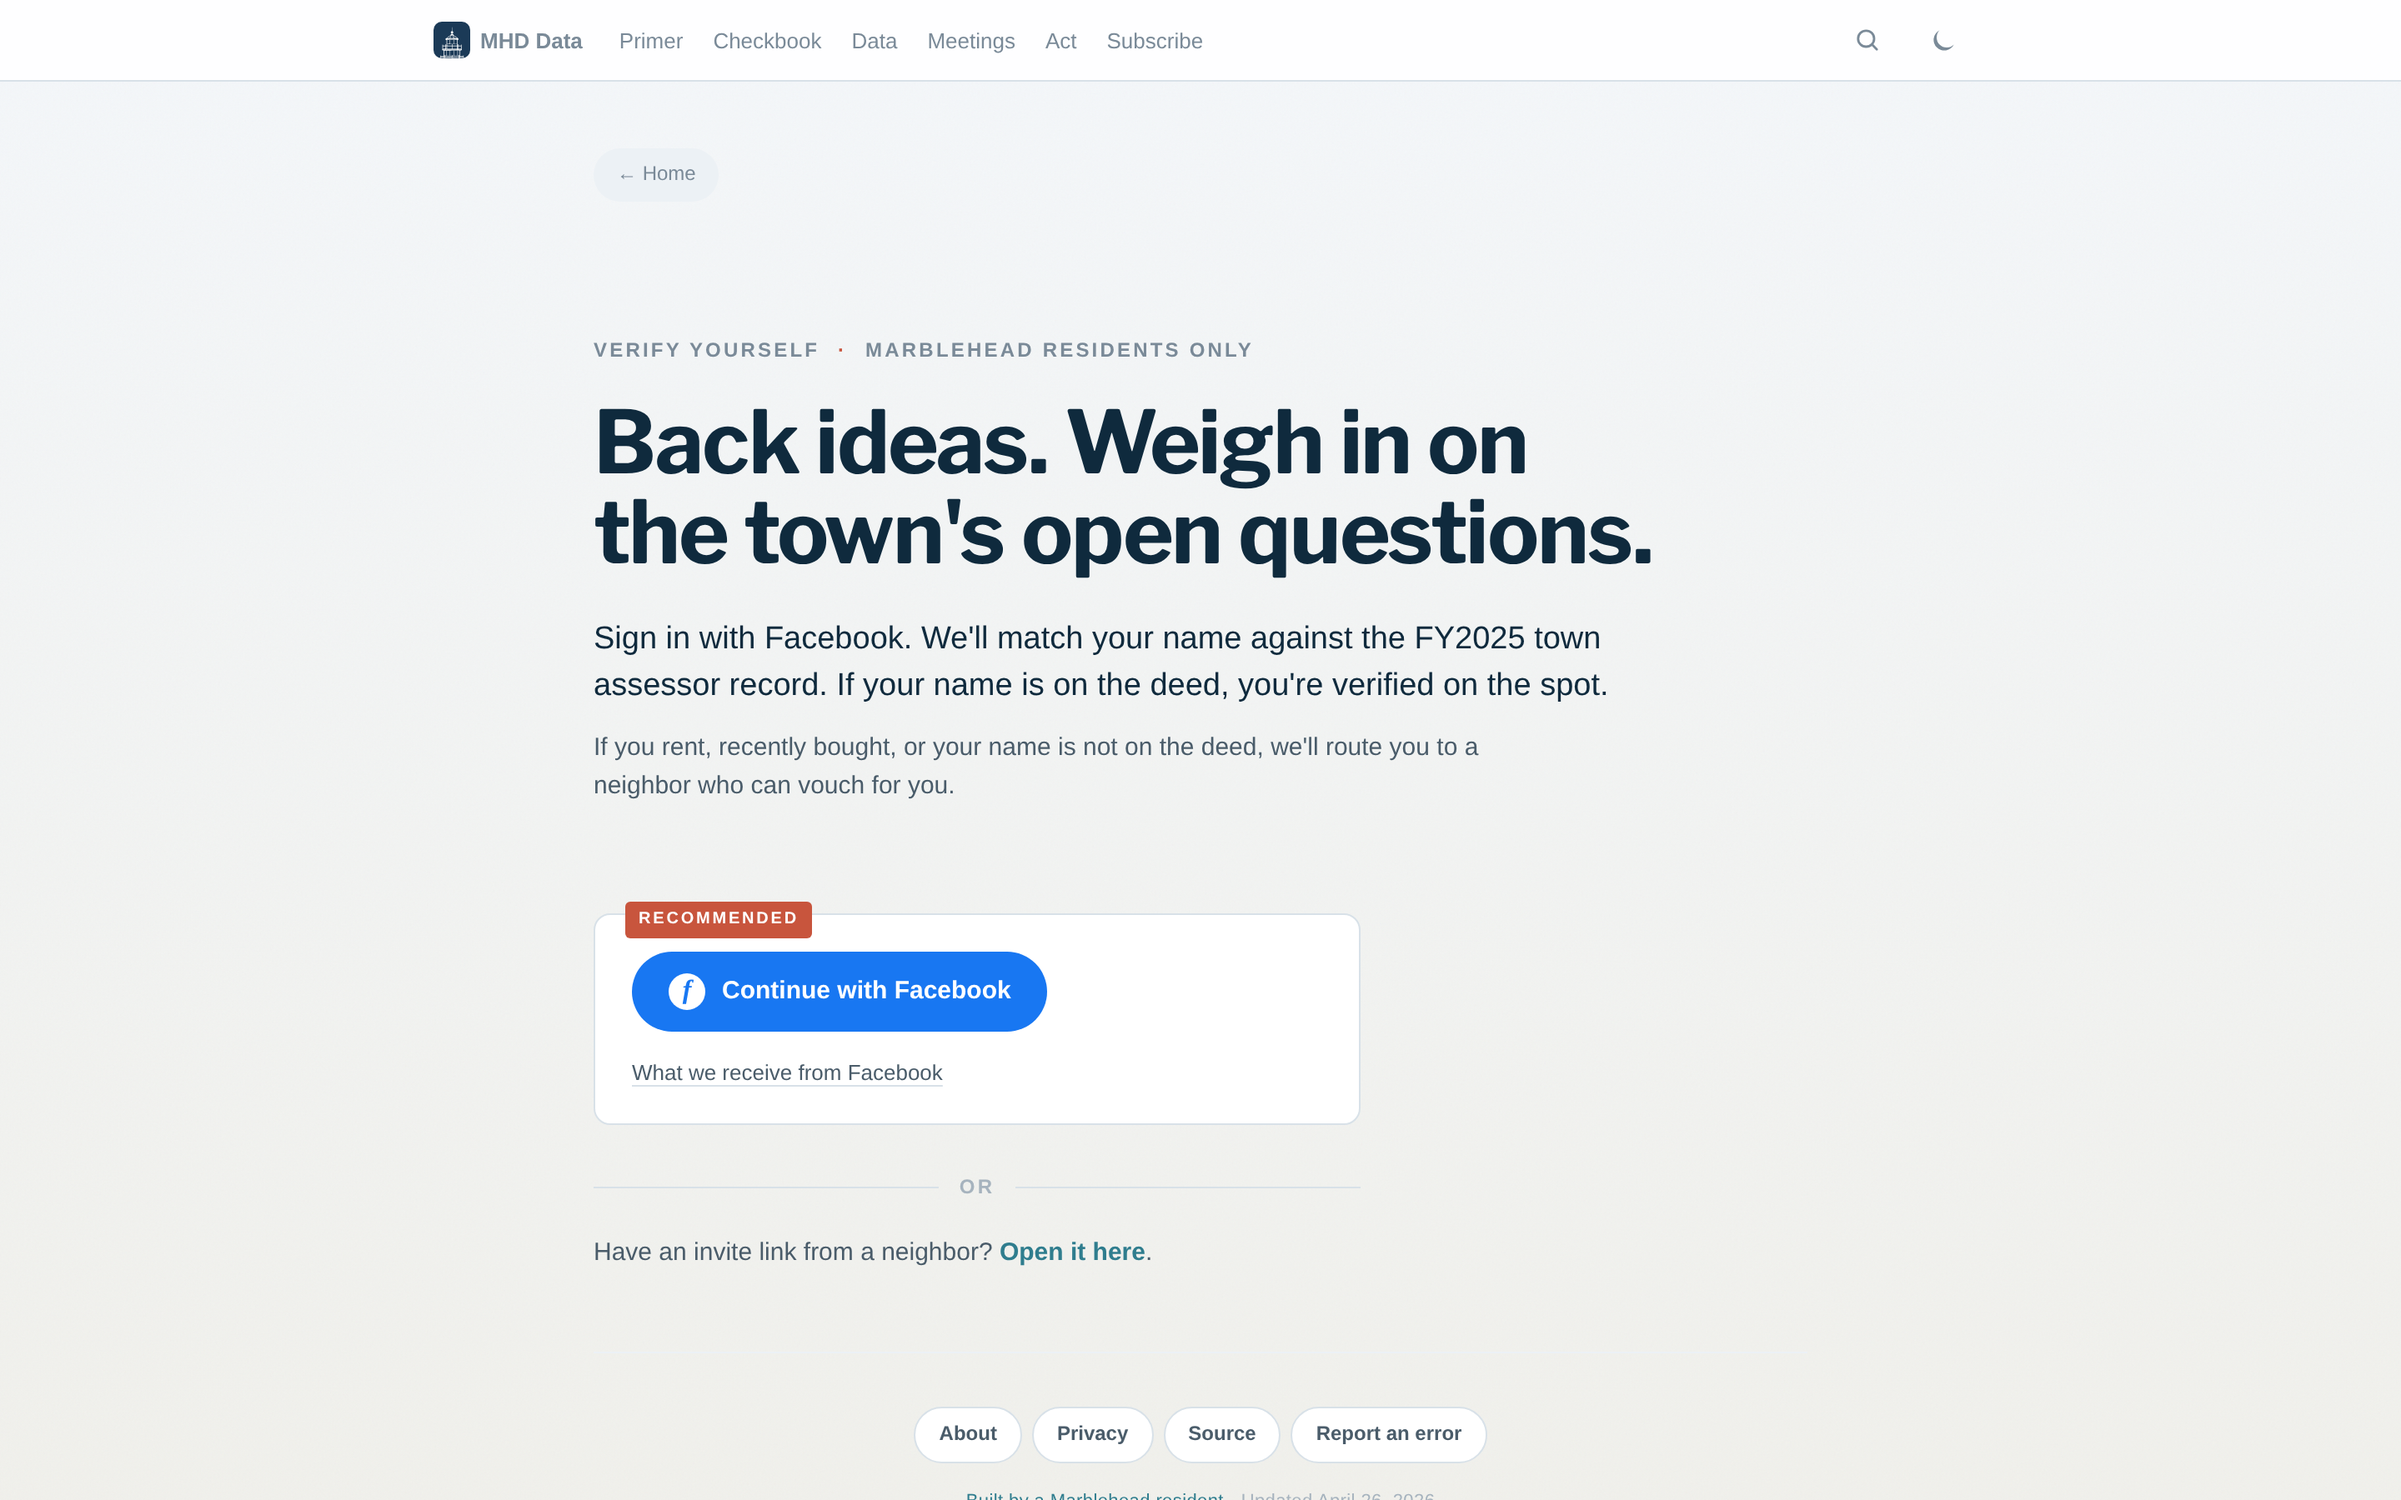
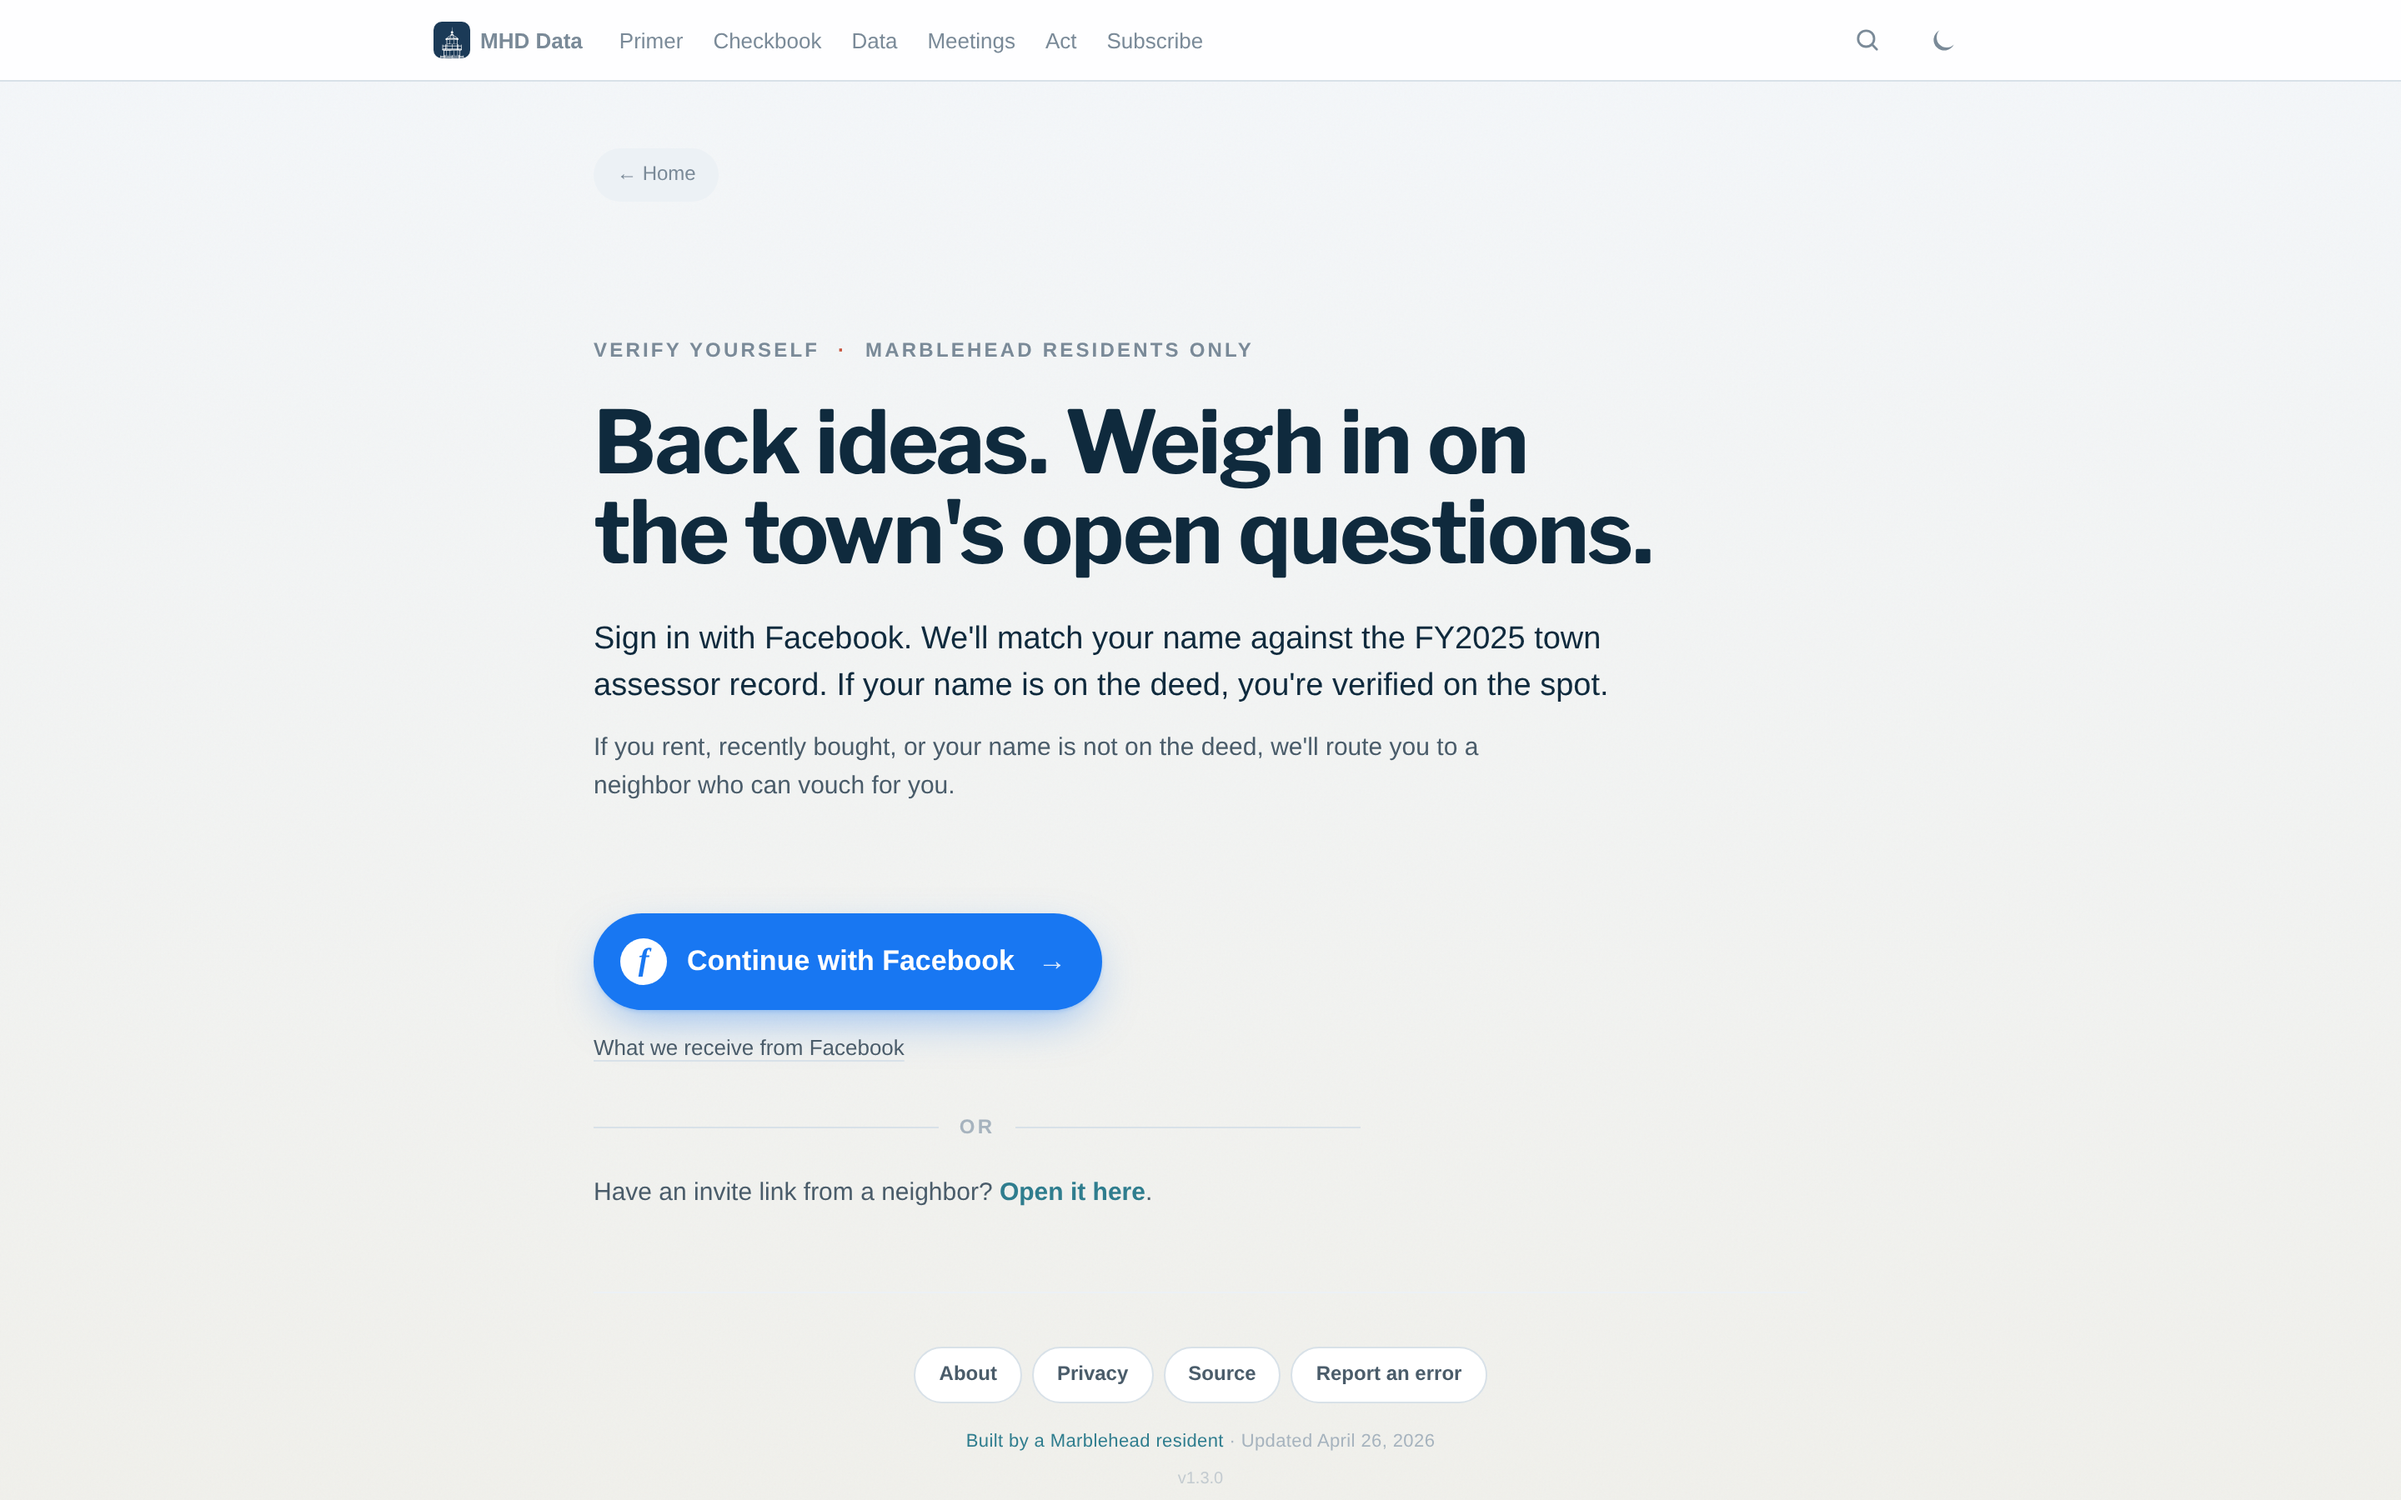
verify-me: lighten the FB CTA -- drop card, add arrow + soft blue glow
The card around the FB button had too much chrome around too small a
CTA: a floating RECOMMENDED tag, a full-width white card, padded
borders, and a button that ended up smaller than its container. The
home page's pattern is just a button + supporting text, no card.

Strip the card. Make the FB button itself the visual anchor:
- bigger circle f-mark (28px), bigger pill (17px text, 15px padding)
- inner "Continue with Facebook" label, trailing arrow that slides on
  hover (matches the .home-deeper "Open the Checkbook ->" idiom)
- soft Facebook-blue drop shadow underneath so the button reads as a
  physical element without needing a card frame

Generated with [Claude Code](https://claude.ai/code)
via [Happy](https://happy.engineering)

diff --git a/verify-me.html b/verify-me.html
@@ -44,49 +44,34 @@ permalink: /verify-me.html
     max-width: 580px;
   }
 
-  /* Primary CTA card --------------------------------------------- */
-  .vm-primary {
-    box-sizing: border-box;
-    max-width: 460px;
-    background: var(--surface);
-    border: 1px solid var(--border);
-    border-radius: 10px;
-    padding: 22px 22px 20px;
-    margin: 0 0 18px;
-    position: relative;
-  }
-  .vm-primary::before {
-    content: 'RECOMMENDED';
-    position: absolute;
-    top: -8px;
-    left: 18px;
-    background: var(--c-buoy);
-    color: #fff;
-    font-size: 10px;
-    font-weight: 700;
-    letter-spacing: 1.4px;
-    padding: 3px 8px;
-    border-radius: 3px;
-  }
+  /* Primary CTA --------------------------------------------------- */
+  .vm-primary { margin: 0 0 14px; }
   .vm-fb {
     display: inline-flex;
     align-items: center;
-    gap: 10px;
-    font-size: 15px;
+    gap: 12px;
+    font-size: 17px;
     font-weight: 700;
     color: #fff;
     background: #1877F2;
     border-radius: 999px;
-    padding: 12px 22px;
+    padding: 15px 22px 15px 16px;
     text-decoration: none;
-    transition: filter 0.15s ease, transform 0.12s ease;
+    box-shadow: 0 1px 2px rgba(24, 119, 242, 0.20),
+                0 10px 28px -8px rgba(24, 119, 242, 0.50);
+    transition: filter 0.15s ease, transform 0.12s ease, box-shadow 0.15s ease;
   }
-  .vm-fb:hover { filter: brightness(1.08); color: #fff; }
+  .vm-fb:hover {
+    filter: brightness(1.06);
+    color: #fff;
+    box-shadow: 0 1px 2px rgba(24, 119, 242, 0.25),
+                0 14px 32px -8px rgba(24, 119, 242, 0.60);
+  }
   .vm-fb:active { transform: scale(0.98); }
   .vm-fb-mark {
     display: inline-flex;
-    width: 22px;
-    height: 22px;
+    width: 28px;
+    height: 28px;
     align-items: center;
     justify-content: center;
     background: #fff;
@@ -95,18 +80,26 @@ permalink: /verify-me.html
     font-family: Georgia, 'Times New Roman', serif;
     font-style: italic;
     border-radius: 50%;
-    font-size: 16px;
+    font-size: 19px;
     line-height: 1;
   }
+  .vm-fb-arrow {
+    margin-left: 2px;
+    transition: transform 0.15s ease;
+    opacity: 0.85;
+  }
+  .vm-fb:hover .vm-fb-arrow { transform: translateX(3px); opacity: 1; }
   .vm-primary-note {
-    margin: 14px 0 0;
+    margin: 12px 0 0;
     font-size: 13px;
     color: var(--text-subtle);
+    max-width: 460px;
   }
   .vm-primary-note a {
     color: var(--text-muted);
     text-decoration: underline;
     text-decoration-color: var(--border);
+    text-decoration-thickness: 1px;
     text-underline-offset: 3px;
   }
   .vm-primary-note a:hover { color: var(--link); text-decoration-color: var(--link); }
@@ -368,7 +361,8 @@ permalink: /verify-me.html
      href="https://marblehead-community-pulse.agbaber.workers.dev/api/auth/fb/start"
      class="vm-fb">
     <span class="vm-fb-mark" aria-hidden="true">f</span>
-    Continue with Facebook
+    <span>Continue with Facebook</span>
+    <span class="vm-fb-arrow" aria-hidden="true">&rarr;</span>
   </a>
   <p class="vm-primary-note">
     <a href="/privacy.html#facebook-sign-in">What we receive from Facebook</a>
